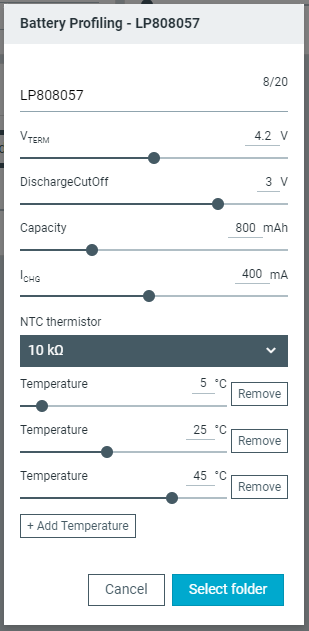
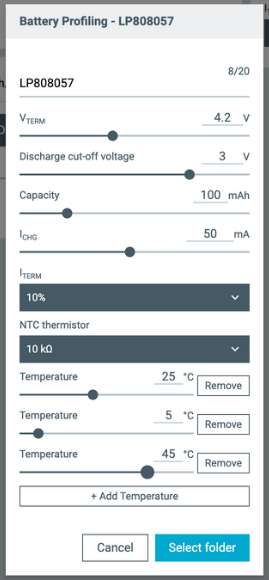
update image and UI desc

Changed region(s): [[0.0, 0.0, 1.0, 0.9931]]

diff --git a/doc/docs/overview.md b/doc/docs/overview.md
@@ -63,7 +63,7 @@ This side panel area lets you select the following options:
 | -------------------------------- | ----------- |
 | **Active Battery Model**         | Select the battery model you want to use for Fuel Gauge in nPM PowerUP.        |
 | **Add New Active Battery Model** | Select a battery from selected vendors that has been profiled by Nordic Semiconductor or your own custom battery model, added with the **Profile Battery** feature and saved in the [**Profiles**](#profiles-tab) tab.        |
-| **Profile Battery**              | Create your own, custom battery profile, and collect the data. These are then saved in the [**Profiles**](#npm1300-and-npm1304-profiles-tab) tab and added to the **Add New Active Battery Model** drop-down menu.</br></br>An additional board, nPM Fuel Gauge, is required to perform the battery profiling. See [Profiling a battery with nPM PowerUP](profiling_battery.md) for more information.        |
+| **Profile Battery**              | Create your own, custom battery profile, and collect the data. The results are then saved in the [**Profiles**](#npm1300-and-npm1304-profiles-tab) tab and added to the **Add New Active Battery Model** drop-down menu.</br></br>Clicking the button opens a window where you can select several options for the battery profiling:<br/>![Profile Battery test configuration](./screenshots/battery_profiling.PNG "Profile Battery test configuration")<br/>See the tooltips for more information about each of the options.</br></br>To perform the battery profiling with the nPM1300 EK, you need the nPM Fuel Gauge Board. See [Profiling a battery with nPM PowerUP](profiling_battery.md) for more information. |
 
 ### nPM2100: Power Source
 

diff --git a/doc/docs/profiling_battery.md b/doc/docs/profiling_battery.md
@@ -25,7 +25,7 @@ Once the battery model is extracted, you only need the PMIC and the SoC (or SiP)
 
 Complete the following steps to profile a battery and use the generated battery model to initialize and run the fuel gauge in the {{app_name}}:
 
-1. Click the [**Profile Battery**](overview.md#actions) button in the side panel.
+1. Click the [**Profile Battery**](overview.md#npm1300-and-npm1304-fuel-gauge) button in the side panel.
 1. Enter the battery data and one or more temperatures for the profiling test. Provide the generic information about the selected battery. Refer to the battery datasheet for information. For further information on profiling, see [Guidelines for battery profiling](profiling_guidelines.md).
 
     ![Profile Battery test configuration](./screenshots/battery_profiling.PNG "Profile Battery test configuration")
